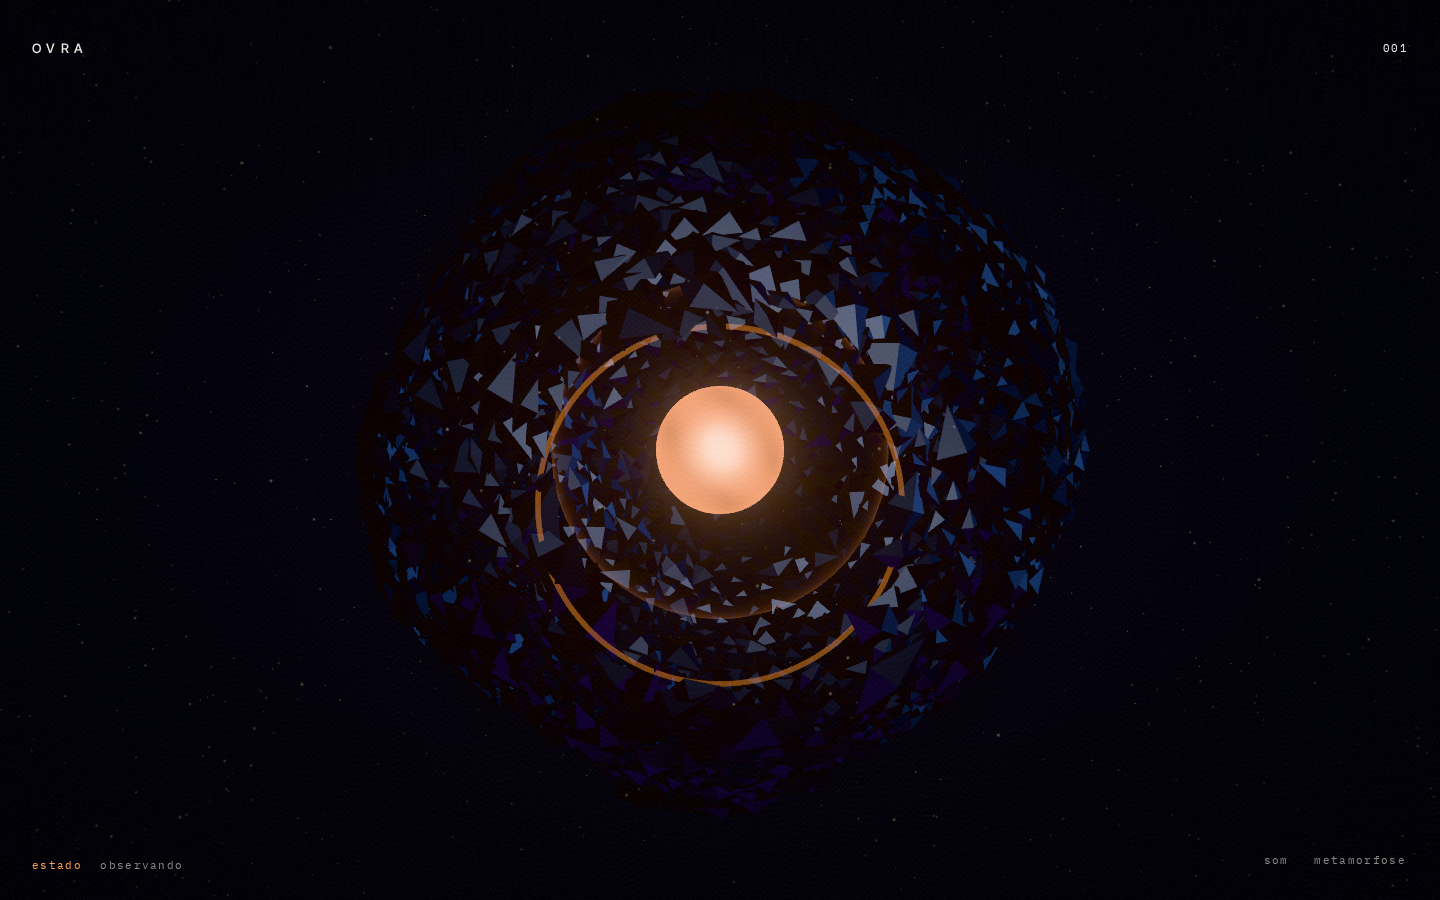
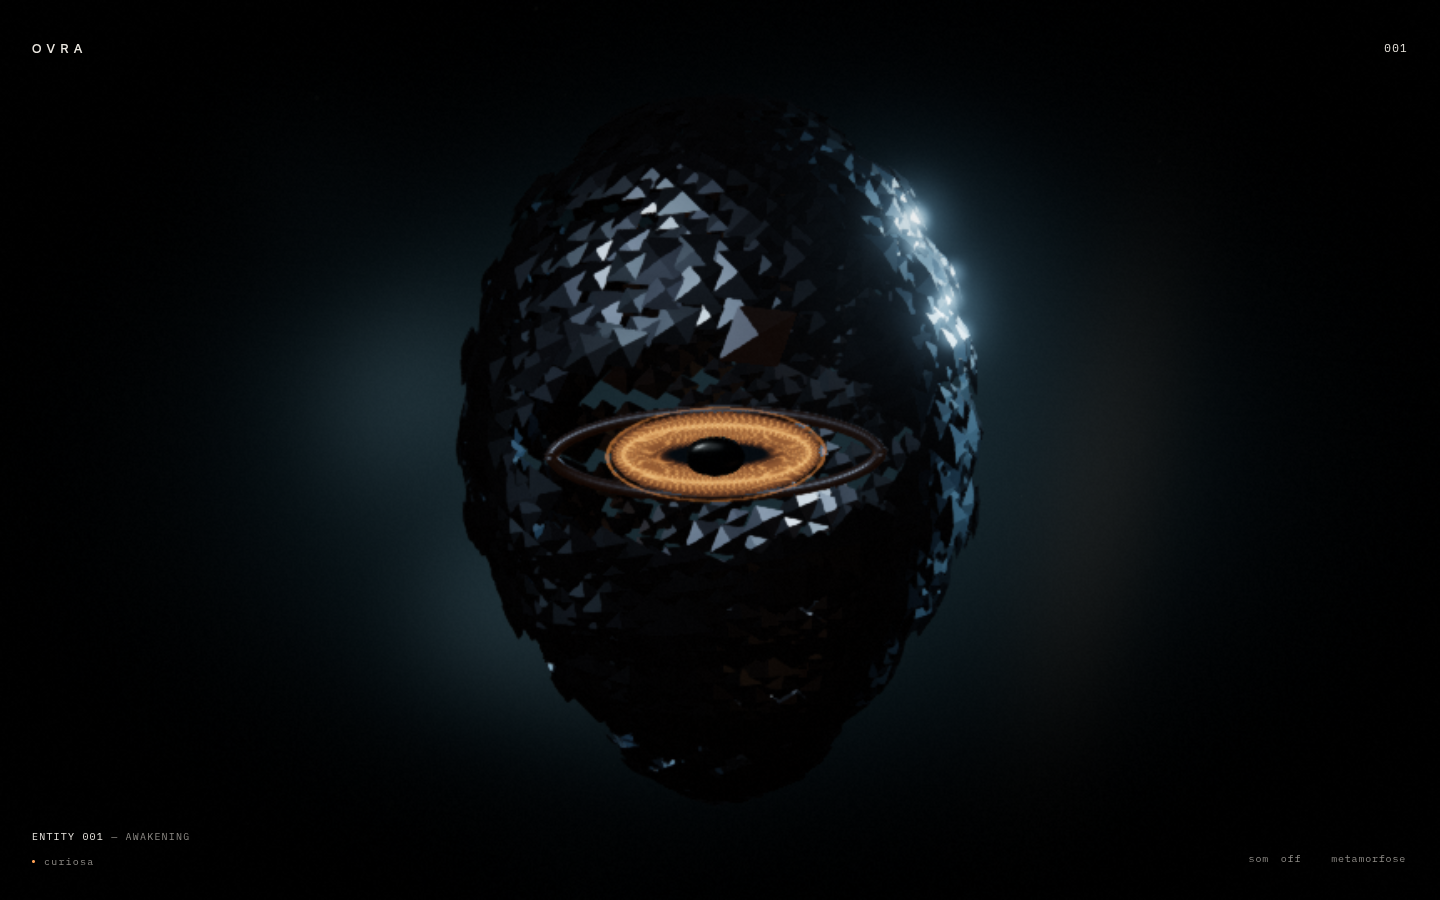
docs: present ENTITY 001 AWAKENING

diff --git a/docs/entity-001.md b/docs/entity-001.md
@@ -1,61 +1,110 @@
-# ENTITY 001
+# ENTITY 001 — AWAKENING
 
 ## Ideia
 
-Uma consciência visual formada por estilhaços de metal frio. Não tem rosto nem corpo. Tem um olho: uma abertura na casca onde um núcleo âmbar fica visível. A abertura se volta para o visitante, como quem presta atenção.
+Uma presença de metal frio desperta no vazio, reconhece o visitante e guarda uma memória breve de seus gestos. É uma performance audiovisual em código: anatomia, luz, câmera e comportamento conduzem a experiência. A interface mostra apenas o nome, o estado e dois controles; a descoberta acontece pelo movimento e pelo tempo de permanência.
 
-O visitante não recebe instruções. Ele percebe a entidade pelo que ela faz: se aproxima quando o cursor fica perto e calmo, recua quando o cursor chega depressa, vira as costas quando se sente invadida e sonha quando ninguém está por perto.
+A obra está em [`/ovra/#/entity-001`](https://gustavomfg.github.io/ovra/#/entity-001). A abertura revela a entidade em 11,8 s. Depois, aproximar-se com calma desperta curiosidade; aproximações rápidas e toques acumulam tensão. Uma ressonância de 12,6 s abre a máscara em órbitas, aproxima a câmera do núcleo e devolve uma anatomia alterada.
 
-## Estrutura visual
+## Anatomia e luz
 
-- **Casca**: cerca de 2 400 estilhaços octaédricos achatados, distribuídos em uma esfera de Fibonacci, com um raio que varia suavemente. Uma abertura, com raio angular de cerca de 26°, fica voltada para a câmera.
-- **Núcleo**: esfera âmbar com gradiente, aura por bloom e um anel de íris na borda da abertura.
-- **Poeira**: partículas em uma camada ao redor, com órbitas próprias calculadas na GPU.
-- **Luz**: ambiente HDR procedural com softboxes frios (um painel à frente da câmera dá o brilho das faces). A luz âmbar não ilumina a casca, para não tingir o grafite.
-- **Acabamento**: bloom, vinheta, grão de filme, separação cromática leve e uma ondulação que parte do ponto tocado.
+- **Máscara**: casca alongada com coroa, têmporas e mandíbula afunilada. A distribuição parte de uma amostragem de Fibonacci deformada; cada placa acompanha a normal e um fluxo tangencial da superfície. A abertura frontal é amendoada.
+- **Matéria**: octaedros achatados em pequenas placas facetadas, com variação de tamanho e tom. No WebGL, cada peça tem rigidez, amortecimento e rotação próprios; os deslocamentos voltam em ritmos diferentes.
+- **Olho**: núcleo comprimido, íris com fibras procedurais, pupila escura e arcos sólidos que ancoram a abertura. A atenção altera a abertura, o olhar e a passagem entre âmbar e frio.
+- **Luz**: ambiente HDR procedural com softboxes, luz principal e recorte frio. O grafite mantém sua massa; o calor se concentra no olho e nas reações locais. A atmosfera é discreta, com poeira e faixas de luz durante a ressonância.
+- **Acabamento**: bloom contido, vinheta, grão, separação cromática leve e ondulação no ponto de toque do renderizador WebGL.
 
-## Estados (temperamento)
+Os perfis iniciais usam 1 800 placas e 980 partículas de poeira em telas largas; até 700 px, 820 placas e 430 partículas. O modo 2D usa 560 facetas, ou 320 no perfil compacto. A densidade é escolhida ao criar a cena; a resolução renderizada também se adapta à duração medida dos quadros.
 
-| Estado | Quando | O que se vê |
+## Temperamento
+
+O comportamento tem sete estados. Eles conduzem pose, abertura do olho, respiração, luz, reação dos fragmentos e enquadramento no WebGL. O modo 2D compartilha os estados e a percepção, com uma interpretação visual mais simples.
+
+| Leitura na tela | Estado interno | Quando acontece | Resposta visual |
+| --- | --- | --- | --- |
+| `sonhando` | `dreaming` | Sem presença por 9 s, quando não está em uma resposta defensiva | Olho quase fechado, luz baixa, olhar que vagueia, respiração lenta e câmera mais afastada. |
+| `observando` | `observing` | Presença sem uma aproximação calma prolongada nem uma invasão | Atenção parcial, abertura intermediária, luz âmbar e pose estável. |
+| `curiosa` | `curious` | Presença próxima e calma por 2,3 s | Inclina-se para perto, abre o olho, acompanha com mais atenção e aproxima o enquadramento. |
+| `recuando` | `wary` | Aproximação rápida ou toque, com pouca tensão acumulada | Recua, estreita o olho, esfria a luz e espalha a matéria com um tremor breve. |
+| `alerta` | `alert` | A memória de tensão ultrapassa 1,45 | Atenção mais intensa, respiração acelerada, luz fria e fragmentos mais reativos. |
+| `perturbada` | `disturbed` | A tensão ultrapassa 2,6 | Recuo maior, olho estreito, tremor mais forte e câmera mais distante. |
+| `indiferente` | `ignoring` | Após a resposta de recuo, alerta ou perturbação | Vira de costas, reduz luz e abertura e responde pouco à presença. |
+
+A tensão cresce com invasões e decai com o tempo; não desaparece na troca de estado. A curiosidade exige proximidade e velocidade abaixo de 0,65 unidade da cena por segundo; uma aproximação próxima acima de 6 unidades por segundo é considerada rápida. A proximidade é calculada em relação à silhueta.
+
+Sem escalar para alerta, o recuo permanece por 1,35 s antes da indiferença. O alerta espera pelo menos 2,2 s e a aproximação deixar de ser rápida; pode escalar para perturbação. A perturbação dura 2,8 s. A indiferença dura 4,8 s após recuo, 3,36 s após alerta ou 6,6 s após perturbação. Esses intervalos evitam mudanças repetidas em um único gesto.
+
+O olhar usa amostras atrasadas em 0,22 s na curiosidade e 0,34 s nos demais estados. Uma previsão curta e limitada acompanha a direção do movimento; mudanças de estado introduzem hesitação. Há pequenos movimentos autônomos e piscadas suaves em um ciclo de 8,7 s. A entidade acompanha o visitante com inércia.
+
+## Gestos e controles
+
+| Ação | Resultado |
+| --- | --- |
+| Mover perto da entidade | Alimenta atenção e tensão conforme velocidade e permanência. No WebGL, empurra e gira as placas próximas com atraso. |
+| Tocar ou clicar | No WebGL, provoca um impulso local, ondulação e breve contato que alimenta a tensão. No modo 2D, alimenta o mesmo temperamento. |
+| Segurar perto da entidade por 1,25 s | Carrega e inicia a ressonância, após a abertura. Soltar, sair da cena ou cancelar o gesto encerra a carga. |
+| Duplo toque ou duplo clique | Inicia a mesma ressonância. Os dois contatos precisam ocorrer próximos, dentro de 380 ms. |
+| Botão `metamorfose` | Inicia a ressonância por um controle nativo, também acessível pelo teclado. Fica desativado durante a abertura e a própria sequência. |
+| Botão `som` | Liga ou desliga a ambiência procedural. A experiência começa silenciosa. |
+
+Após 18 s sem atividade, surge a dica discreta `Segure para despertar`. Ela desaparece com a interação ou durante a sequência.
+
+Os botões têm foco visível. O som expõe seu estado por `aria-pressed`; mudanças de estado da obra são anunciadas em `aria-live="polite"`. O canvas tem uma descrição acessível. As mesmas ações estão disponíveis nos renderizadores WebGL e 2D.
+
+## Abertura — 11,8 s
+
+| Passagem | Intervalo | Composição |
 | --- | --- | --- |
-| `sonhando` | Sem visitante por 7 s | Olhar vagueia devagar; núcleo baixo, frio |
-| `observando` | Visitante presente, à distância | Olhar acompanha o cursor com metade da intensidade; núcleo âmbar |
-| `curiosidade` | Cursor perto e calmo por 1,6 s | Entidade se aproxima, olhar acompanha por inteiro, núcleo mais quente |
-| `recuo` | Cursor perto e rápido (acima de 1,5 unidades/s) | Flash claro, entidade recua e a casca reage com força |
-| `indiferença` | 1,1 s após o recuo | Vira de costas por 5 s; núcleo frio e baixo; reage pouco ao cursor |
+| Contorno — `trace` | 0–3,4 s | Recorte frio e atmosfera insinuam a máscara. A matéria e o núcleo começam a aparecer; uma faixa de luz percorre a casca. |
+| Matéria — `material` | 3,4–8 s | As placas ganham presença e luz principal. A abertura começa a se revelar enquanto a câmera se aproxima e muda suavemente de posição. |
+| Reconhecimento — `recognition` | 8–11,8 s | O olho abre, o núcleo ganha intensidade e a câmera encontra o enquadramento de repouso. A entidade passa a responder ao visitante. |
 
-Os estados são lidos no canto inferior como `estado · observando`, em caixa baixa.
+As passagens se sobrepõem: os tempos definem a direção da composição, e cada placa tem seu limiar de materialização. Câmera e luz avançam na mesma performance.
 
-## Interações
+## Ressonância — 12,6 s
 
-- **Passar o cursor**: os estilhaços próximos são empurrados e voltam em tempos diferentes, pela própria rigidez de cada peça. O empurrão segue o cursor com um atraso curto, o que dá inércia.
-- **Toque**: dispersa os estilhaços em volta do ponto e cria uma ondulação na imagem.
-- **Duplo toque (ou o botão `metamorfose`)**: inicia a sequência cinematográfica.
+| Passagem | Intervalo | Composição |
+| --- | --- | --- |
+| Tensão — `anticipation` | 0–1,2 s | A matéria contrai, o olho estreita e a câmera recua. A luz prepara a ruptura. |
+| Dispersão e órbitas — `rupture` | 1,2–4,8 s | A casca se abre; a partir de 2 s, as placas começam a ocupar três faixas orbitais orientadas. |
+| Limiar — `threshold` | 3,8–7 s | A câmera se aproxima do núcleo, abre a lente e atravessa o enquadramento das faixas. |
+| Interior — `inside` | 7–8,4 s | Uma pausa próxima ao núcleo dá tempo para a alteração da entidade. |
+| Retorno — `return` | 8,4–12,6 s | Câmera e matéria retornam. No WebGL, a máscara fica mais estreita e alta, com placas ajustadas e sinais residuais de órbita e calor. |
 
-## Sequência de metamorfose (≈ 8 s)
+A dispersão, a organização das faixas e a aproximação se sobrepõem. O retorno preserva a evolução durante a visita. Quando o som está ligado, a energia da cena conduz a ambiência e sinais sonoros acompanham a ruptura e o retorno.
 
-1. **Tensão (0–0,9 s)**: o núcleo se acende; a câmera recua e fecha a lente.
-2. **Dispersão (0,8–2,0 s)**: a casca se desfaz para fora.
-3. **Anéis (2,1–4,3 s)**: a matéria se reorganiza em três anéis orbitais; a câmera gira cerca de 145°.
-4. **Pausa (4,3–5,4 s)**: os anéis permanecem, com a câmera girando.
-5. **Retorno (5,4–7,4 s)**: a matéria volta à casca e a câmera volta à posição de repouso.
+## Movimento reduzido
 
-Com movimento reduzido, apenas a luz pulsa.
+Com `prefers-reduced-motion`, a entidade começa assentada: sem abertura espacial, deriva, perseguição do cursor, respiração, tremor, câmera móvel ou impulsos nas placas. O temperamento ainda pode alterar a luz e a leitura de estado. No WebGL, tocar produz apenas um brilho breve; a ação `metamorfose` vira um pulso suave de luz de 2,2 s.
 
-## Intro (≈ 7 s)
+A preferência é observada durante a visita. Ativá-la interrompe uma abertura ou ressonância em andamento, elimina o deslocamento residual das placas e assenta a câmera. Desativá-la permite movimento nas interações seguintes, sem reiniciar a abertura.
 
-O núcleo acende primeiro. A casca se materializa de baixo para cima, com um atraso aleatório por peça. A câmera parte de longe e se aproxima com um movimento de desaceleração suave.
+## Tempo, render e recursos
 
-## Parâmetros
+- **Relógio da cena**: o loop separa o passo físico, limitado a 0,05 s, do tempo de cada quadro visível, limitado a 0,25 s. Molas e placas usam o passo físico; temperamento, percepção e performance usam o tempo visível. Isso evita que uma GPU lenta alongue a narrativa na mesma proporção que a física.
+- **Sequências**: as linhas do tempo GSAP ficam pausadas e só avançam pelo relógio da cena. São descartadas ao terminar, ao assentar a entidade ou ao desmontar.
+- **Visibilidade**: render e narrativa param com a aba oculta, fora da tela ou com a área da cena zerada. A retomada não incorpora o tempo passado fora da experiência. Uma carga por gesto também é solta ao ocultar a aba.
+- **Qualidade**: o WebGL limita a resolução inicial por densidade de pixels e área renderizada. Quadros lentos detectados podem reduzir progressivamente a resolução. O enquadramento se adapta à proporção da tela.
+- **Modo essencial**: ausência de WebGL2, falha na criação da cena ou perda de contexto levam ao canvas 2D. Ele desenha uma máscara de facetas orientadas, com olho, temperamento, percepção, abertura, ressonância e os mesmos controles; a iluminação e a dinâmica espacial são simplificadas.
+- **Descarte**: desmontar cancela loop e linhas do tempo, remove listeners e observadores e libera geometrias, materiais, pós-processamento, texturas, alvo de render do ambiente e contexto WebGL. A ambiência também é encerrada.
 
-Os números estão em `src/experiments/entity-001/`:
+## Organização
 
-- `config.ts`: raio, abertura, paleta, câmera e contagens por qualidade (2 400 peças em desktop, 1 100 em celular).
-- `behavior.ts`: limiares de proximidade, velocidade, tempo de encantamento, recuo e sono.
-- `choreography.ts`: as duas linhas do tempo do GSAP (intro e metamorfose).
-- `shards.ts`: rigidez, amortecimento, alcance do empurrão e calor.
+Os arquivos do experimento ficam em `src/experiments/entity-001/`:
 
-## Fora do escopo
+| Arquivo | Responsabilidade |
+| --- | --- |
+| `Entity001.tsx` / `entity-001.css` | Montagem, gestos, controles, dica, acessibilidade, visibilidade e composição mínima da interface. |
+| `config.ts` | Anatomia, paleta local, câmeras iniciais, carga por gesto e perfis de qualidade. |
+| `geometry.ts` / `shards.ts` | Formações da máscara e das três faixas; orientação, molas, calor, materialização e evolução das placas. |
+| `kernel.ts` | Íris procedural, pupila, arcos e abertura do olho. |
+| `behavior.ts` / `perception.ts` | Temperamento, memória de tensão, intenções, olhar atrasado, antecipação, hesitação e piscadas. |
+| `choreography.ts` / `performance.ts` | Linhas do tempo, fases, carga, avanço pelo relógio da cena e interrupção por movimento reduzido. |
+| `scene.ts` / `atmosphere.ts` / `dust.ts` | Cena WebGL, luz, câmera, atmosfera, poeira, pós-processamento, qualidade e recursos. |
+| `EntityFallback.tsx` | Interpretação em canvas 2D com comportamento e performance compartilhados. |
 
-- Modelos GLB/GLTF: a entidade é procedural. A base para carregar um modelo existe em `core/assets.ts`.
-- Estado salvo entre visitas: a entidade começa sempre da mesma escuridão.
+`src/core/` mantém câmera, ambiente HDR, pós-processamento, relógio, áudio, capacidades e carregamento de recursos reutilizáveis. O registro usa o slug `entity-001`; o caminho de publicação permanece `/ovra/`.
+
+## Limites atuais
+
+A anatomia é procedural e não depende de um modelo binário. A base para carregar GLB/GLTF continua em `src/core/assets.ts`, disponível para futuras entidades. A evolução não é salva entre visitas: remontar a cena inicia uma nova performance.

diff --git a/README.md b/README.md
@@ -9,7 +9,7 @@
   ·
   <a href="DESIGN.md">Sistema visual</a>
   ·
-  <a href="docs/entity-001.md">ENTITY 001</a>
+  <a href="docs/entity-001.md">ENTITY 001 — AWAKENING</a>
 </p>
 
 <p align="center">
@@ -21,14 +21,23 @@
 </p>
 
 <p align="center">
-  <img src="images/ovra-entity-001.png" alt="ENTITY 001: uma casca de estilhaços metálicos em torno de um núcleo âmbar, com um anel orbital de luz" width="1440" />
+  <img src="images/ovra-entity-001.png" alt="ENTITY 001 — AWAKENING: máscara de placas em grafite, coroa alongada, mandíbula afunilada e olhar âmbar no vazio" width="1440" />
 </p>
 
 ## Experimentos
 
 | Código | Nome | Ideia |
 | --- | --- | --- |
-| 001 | ENTITY 001 | Uma entidade digital feita de estilhaços. Ela surge da escuridão, observa o cursor com atraso e inércia, recua, se vira de costas e se transforma com um duplo toque. |
+| 001 | [ENTITY 001 — AWAKENING](docs/entity-001.md) | Uma presença de metal frio que desperta, observa com atraso, guarda tensão e responde com sete temperamentos. A ressonância abre sua matéria em órbitas e a devolve alterada. |
+
+Uma performance audiovisual feita com código: a abertura de 11,8 s revela contorno, matéria e olhar. Aproxime o cursor devagar e permaneça para despertar curiosidade; movimentos rápidos e toques acumulam tensão. Segure perto da entidade por 1,25 s, dê um duplo toque ou use o botão `metamorfose` para iniciar a ressonância de 12,6 s. O som é opcional e começa no botão `som`.
+
+<details>
+  <summary>AWAKENING durante a ressonância</summary>
+  <p align="center">
+    <img src="images/ovra-awakening-resonance.png" alt="AWAKENING em ressonância: placas de metal reorganizadas em faixas orbitais ao redor do núcleo" width="1440" />
+  </p>
+</details>
 
 Cada experimento é uma pasta independente em `src/experiments/`. A lista fica em `src/experiments/registry.ts` e é carregada sob demanda: um experimento só é baixado quando aberto.
 
@@ -67,14 +76,14 @@ src/
   core/                       base reutilizável para qualquer experimento
     camera.ts                 câmera orbital com movimento amortecido e objetivos tweenáveis
     lighting.ts               ambiente HDR procedural (softboxes) para reflexos de metal
-    postprocessing.ts         bloom, acabamento (vinheta, grão, lente, ondulação) em um passe
-    frameLoop.ts              loop de quadros que pausa com a aba oculta ou fora da tela
+    postprocessing.ts         bloom, antialiasing e acabamento (vinheta, grão, lente, ondulação)
+    frameLoop.ts              tempo da cena e passo físico; pausa com a aba oculta ou fora da tela
     assets.ts                 carregamento de GLTF/GLB com cache e descarte de recursos
     audio.ts                  ambiência opcional em Web Audio, desligada por padrão
     spring.ts, math.ts, noise.ts, transitions.ts, capabilities.ts
   experiments/
     registry.ts               lista de experimentos (carregamento preguiçoso)
-    entity-001/               ENTITY 001: cena, comportamento, coreografia, fallback 2D
+    entity-001/               AWAKENING: anatomia, temperamento, percepção, performance e renderizadores
 public/                       manifesto, service worker, ícone e página 404 do GitHub Pages
 tests/                        teste de offline do PWA e teste de navegador
 docs/entity-001.md            direção artística e especificação de comportamento
@@ -89,15 +98,15 @@ docs/entity-001.md            direção artística e especificação de comporta
 
 ### Modelos 3D
 
-ENTITY 001 é procedural: não depende de arquivos binários. Para um experimento com modelo pronto, exporte um GLB/GLTF pelo Blender e carregue com `loadGltf` (`src/core/assets.ts`), que já faz cache e tenta de novo após uma falha. Descarte o objeto com `disposeObject` ao desmontar.
+AWAKENING é procedural: não depende de arquivos binários. Para um experimento com modelo pronto, exporte um GLB/GLTF pelo Blender e carregue com `loadGltf` (`src/core/assets.ts`), que já faz cache e tenta de novo após uma falha. Descarte o objeto com `disposeObject` ao desmontar.
 
 ## Qualidade e acessibilidade
 
-- **Movimento reduzido**: sem intro, sem deriva, sem o olhar seguindo o cursor, sem movimento de câmera e sem empurrões nos estilhaços. A reação ao toque continua apenas como brilho; a metamorfose vira um pulso de luz.
-- **Sem WebGL2**: o mesmo experimento é desenhado em um canvas 2D com a mesma silhueta e os mesmos controles.
-- **Recursos**: o loop para com a aba oculta ou fora da tela; geometrias, materiais, texturas e o contexto WebGL são liberados ao desmontar.
+- **Movimento reduzido**: a entidade aparece assentada, sem intro, deriva, olhar seguindo o cursor, movimento de câmera ou empurrões nos estilhaços. Ativar a preferência durante uma sequência interrompe o movimento. A metamorfose vira um pulso suave de luz.
+- **Sem WebGL2**: o modo essencial desenha uma máscara procedural em canvas 2D e compartilha temperamento, percepção, relógio da performance e controles. Também assume a cena após uma perda de contexto WebGL.
+- **Recursos**: o render e o tempo narrativo param com a aba oculta, fora da tela ou com a área da cena zerada. Recursos da cena, pós-processamento, ambiente HDR e contexto WebGL são liberados ao desmontar; a resolução pode baixar quando o render fica lento.
 - **Áudio**: silencioso por padrão e só começa após ação explícita.
-- **Teclado**: os controles são botões nativos; a metamorfose também está disponível pelo botão, além do duplo toque.
+- **Teclado**: os controles são botões nativos com foco visível; `metamorfose` oferece a mesma ação do gesto de segurar ou do duplo toque. O estado é anunciado sem interromper a leitura.
 - **Publicação**: GitHub Pages em [`/ovra/`](https://gustavomfg.github.io/ovra/). `VITE_BASE_PATH` e `base` em `vite.config.ts` usam o caminho atual do repositório.
 
 ## Publicação

diff --git a/DESIGN.md b/DESIGN.md
@@ -49,11 +49,14 @@ Texto nunca compete com a obra. Quando aparece, é uma leitura do que a obra est
 - Os controles ficam nos cantos inferiores e somam no máximo duas palavras cada.
 - Em celulares, a obra é enquadrada pela largura: a câmera recua para que a silhueta não seja cortada.
 
+Em ENTITY 001 — AWAKENING, a massa é uma máscara alongada de grafite: coroa, têmporas e mandíbula afunilada, com placas orientadas pela superfície. A abertura amendoada sustenta uma íris âmbar e uma pupila escura; o recorte de luz fria revela o metal sem dissolver sua massa no vazio.
+
 ## Movimento
 
-- Toda transição é coreografada, com ritmo: a intro leva cerca de 7 s; a metamorfose, cerca de 8 s.
+- Em ENTITY 001 — AWAKENING, a abertura dura 11,8 s: contorno, matéria e reconhecimento. A ressonância dura 12,6 s, passando por tensão, dispersão, faixas orbitais, aproximação do núcleo e retorno alterado. Câmera e luz sustentam juntas esse ritmo.
 - Nada muda de forma abrupta sem intenção artística. A luz é o primeiro sinal, a forma vem depois.
-- Com movimento reduzido: sem intro, sem deriva, sem movimento em resposta ao cursor e sem movimento de câmera. Ao toque, a matéria só acende. A metamorfose vira um pulso de luz.
+- O temperamento de AWAKENING aparece na pose, na abertura do olho, na respiração, na luz, nos fragmentos e no enquadramento. O olhar tem memória curta, antecipação limitada, hesitação e piscadas suaves.
+- Com movimento reduzido: sem intro, sem deriva, sem movimento em resposta ao cursor e sem movimento de câmera. Ativar a preferência interrompe a sequência espacial e assenta a entidade. Ao toque, a matéria só acende. A metamorfose vira um pulso suave de luz.
 
 ## Acessibilidade
 
